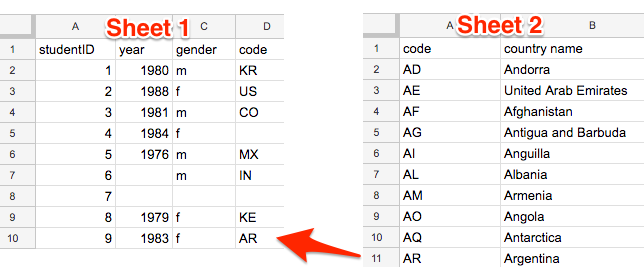
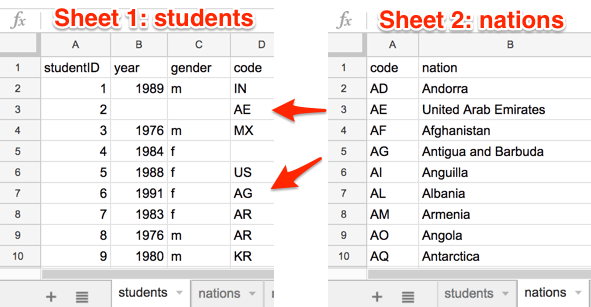
updated VLookup and Pivot

Changed region(s): [[0.0, 0.0, 1.0, 1.0], [0.4264, 0.0, 0.4569, 0.0293]]

diff --git a/spreadsheet/vlookup/README.md b/spreadsheet/vlookup/README.md
@@ -1,50 +1,31 @@
-# Match Spreadsheet Columns with VLOOKUP Function
-*By [Jack Dougherty](../../introduction/who.md), last updated March 2, 2017*
+# Match Columns with VLOOKUP Function
+*By [Jack Dougherty](../../introduction/who.md), last updated March 15, 2017*
 
-Here's a common problem: One spreadsheet, such as the class roster for DataViz For All, contains a column with a two-letter code for the nation of each student. A second spreadsheet contains a complete list of codes and full names for all nations. What's the best way to merge all of this information into one sheet, so each student row contains the full name of their nation?
+Here's a common problem: Sheet 1 contains a long roster of students enrolled in our *Data Visualization For All* course, with a two-letter code for their nation. Sheet 2 contains the list of codes for each nation. How can we quickly match up this information in one sheet, so that each row contains the nation for each student?
 
-![Screenshot: Problem - how to match columns in two tables?](vlookup-problem.png)
+![Screenshot: Problem - How to match columns in two sheets?](vlookup-problem.png)
 
-The solution: Instead of manually copying and pasting data, most spreadsheet tools contain a VLookup function, which "looks up" data across two or more vertical columns, and automatically fills in matching entries.
+One solution: Spreadsheets contain a VLOOKUP function, which "looks up" data across two or more vertical columns, and automatically fills in matching entries. This tutorial demonstrates how to set up this calculation in Google Sheets and Excel
 
-![Screenshot: Solution - use the VLookup function](vlookup-solution.png)
+![Screenshot: Solution - Use the VLookup function](vlookup-solution.png)
 
+## Video with step-by-step tutorial for Google Sheets
+{%youtube%}qrzKzts3mV0{%endyoutube%}
 
-**TO DO**
-- redo the conceptual visual with a better example, maybe towns or school districts?
-- add Google Sheets visuals
-- upload sample tables for readers to follow along
-- see other notes inserted below
+1) Right-click and Save this link [sample-students-nations](sample-students-nations.ods) to download the sample data in OpenDocument System (.ods) format to your computer. For Google Sheets, see the [Upload Files and Convert tutorial](../upload) in this book. Or, open the file with Microsoft Excel or LibreOffice, and the directions below will be similar.
 
-Here's a common problem: Your first spreadsheet contains a long list of towns by population. Your second spreadsheet contains a long list of towns by income. What's the most efficient way to merge all of these columns into one sheet?
-- You could copy and paste each cell, but that would take forever
-- You could sort each sheet alphabetically by town, then copy and paste an entire column, but that only works if each sheet contains the exact same list of towns
-- You could use the VLookup function, which "looks up" data in two vertical columns and automatically fills those that match
+2) In the students sheet, type "nation" as a column header into cell E1.
 
+3) Click in cell E2, start typing "=VLOOKUP" and the spreadsheet tool will suggest that you complete the formula in this format:
+```
+VLOOKUP(search_key, range, index, [is_sorted])
+```
+  - search_key = the Sheet 1 cell we are trying to match
+  - range = the columns in Sheet 2 where matches may exist
+  - index = the column in the Sheet 2 range that contains the desired result, where 1 = first column, 2 = second column, etc.
+  - [is_sorted] = if the first column of the range is sorted, enter "true" to find the closest match; otherwise enter "false" to return exact matches only
 
-In Excel, the VLOOKUP formula looks complex at first, so let's break it down into steps.
-
-![](excel-vlookup-start.png)
-
-1. In the target column of table 1, type: =VLOOKUP
-
-2. Excel recognizes the start of the VLOOKUP formula, and asks you to fill in required values, separated by commas:
-  - lookup_value: the shared column in table 1 (in this example, click cell A2)
-  - table_array: the relevant columns in table 2 (click on table 2 columns A and B, and Excel will automatically fill in the long reference code to them)
-  - col_index_num: the column from table 2 that you wish to pull into table 1 (in this example, type 2, since you want data from the second column)
-  - [range_lookup]: type "FALSE", to instruct Excel to enter "#NA" if no match is found
-
-3. After filling in the formula, press the Return key. The matched value from table 2 should appear in table 1.
-
-4. Drag the formula down to fill in the column. Inspect your results. In this example, since Broccoli did not appear in table 2, its match is #NA (not applicable) in table 1.
-
-5. To transform your new column from a formula to data, select all, copy, and paste special > values only.
-
-![](vlookup-640.gif)
-
-*TO DO*
-- explain limitations of VLOOKUP
-- see also related tools: INDEX (?)
+4. You can type in the formula, or fill it out by clicking on cells, columns, and sheets as shown in the video above.
 
 {% footer %}
 {% endfooter %}

diff --git a/spreadsheet/pivot/README.md b/spreadsheet/pivot/README.md
@@ -1,26 +1,32 @@
 # Group Data with Pivot Tables
-*By [Jack Dougherty](../../introduction/who.md), last updated February 14, 2017*
+*By [Jack Dougherty](../../introduction/who.md), last updated March 15, 2017*
 
 Here's a common problem: You open a large spreadsheet with many rows of data, such as a list of students. Your goal is to count students by categories, such as the number of students by each year of birth.  What's the most efficient way to do this?
 
 ![Screenshot: Long spreadsheet of student data](spreadsheet-pivot-intro.png)
 
-Answer: Create a pivot table to aggregate (or group together) and summarize data in another spreadsheet tab.
+A solution: Create a pivot table to aggregate (or group together) and summarize data in another spreadsheet tab.
 
 ![Screenshot: Pivot table of count by year of birth](spreadsheet-google-pivot-year.png)
 
 While pivot tables may look different across spreadsheet tools, the concept is the same.
 
-## Simple Pivot Table with Google Sheets: Tutorial with Video
-1. Right-click and Save As this link: [sample-students](sample-students.csv) to download the sample data in a generic CSV spreadsheet format to your computer.
-2. Sign into [Google Drive](http://drive.google.com) (requires free account) and drag-and-drop the sample CSV file to instantly upload. Before you do this, make sure your Settings (gear symbol) is set to Convert Uploads to Google Docs editor format (the default setting).
-3. Shift-click to select all columns that you wish to pivot.
-4. Select Data > Pivot Table..., which opens a new spreadsheet tab.
-5. In Report Editor, select Rows > Add Field > Year to list all entries in order.
-6. In Report Editor, select Values > Add Field > Year to summarize all values for each entry.
-7. Change Summarize by SUM to Summarize by COUNTA (to count alphabetical or numerical entries), or COUNT (to count only numeric values).
-
+## Video with step-by-step tutorial for Google Sheets
 {%youtube%}3sK7-g0otGM{%endyoutube%}
+
+1) Right-click and Save this link [sample-students](sample-students.csv) to download the sample data in a generic CSV spreadsheet format to your computer.
+
+2) Sign into [Google Drive](http://drive.google.com) (requires free account) and drag-and-drop the sample CSV file to instantly upload. Before you do this, make sure your Settings (gear symbol) is set to Convert Uploads to Google Docs editor format (the default setting).
+
+3) Shift-click to select all columns that you wish to pivot.
+
+4) Select Data > Pivot Table..., which opens a new spreadsheet tab.
+
+5) In Report Editor, select Rows > Add Field > Year to list all entries in order.
+
+6) In Report Editor, select Values > Add Field > Year to summarize all values for each entry.
+
+7) Change Summarize by SUM to Summarize by COUNTA (to count alphabetical or numerical entries), or COUNT (to count only numeric values).
 
 ## More Advanced Pivot Table with Google Sheets
 
